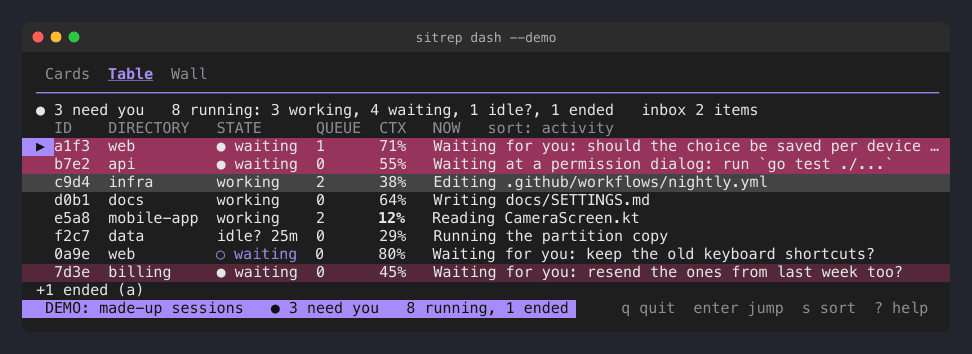
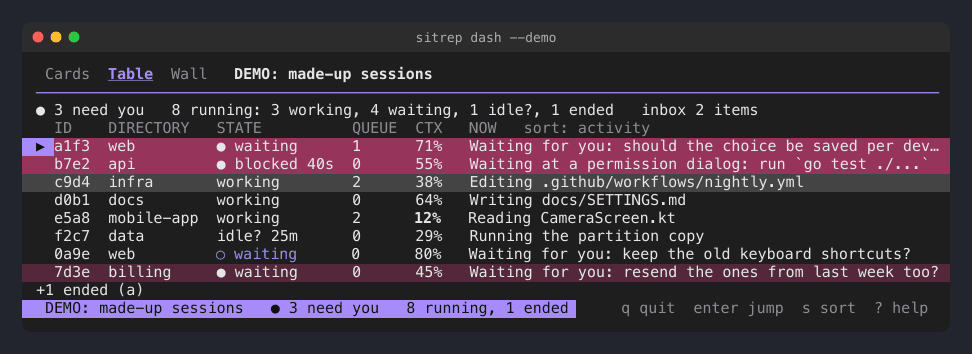
Act on the marketer's review: say where the cost cap is, show the session at a permission dialog as blocked in the demo, crop the social preview at whole rows, split the install paragraph, and name the queue first in the legend

Changed region(s): [[0.2469, 0.3418, 0.9568, 0.8079], [0.216, 0.1864, 0.463, 0.2486]]

diff --git a/internal/cli/demo.go b/internal/cli/demo.go
@@ -34,7 +34,7 @@ type demoSession struct {
 
 var demoSessions = []demoSession{
 	{"a1f3c9d2", "web", "waiting", "waiting", 190, true, false, false, false, "Dark mode for the settings page", "Theme tokens are in; the toggle works in Chrome", "Waiting for you: should the choice be saved per device or per account?", []string{"check the focus ring in dark mode"}, 71},
-	{"b7e20c41", "api", "waiting", "waiting", 40, true, true, false, false, "Add pagination to list_orders", "Cursor pagination written, tests pass", "Waiting at a permission dialog: run `go test ./...`", nil, 55},
+	{"b7e20c41", "api", "waiting", "blocked 40s", 40, true, true, false, false, "Add pagination to list_orders", "Cursor pagination written, tests pass", "Waiting at a permission dialog: run `go test ./...`", nil, 55},
 	{"c9d4a6e8", "infra", "working", "working", 20, false, false, false, false, "Move the nightly job to the new runner", "Image built; the schedule is copied", "Editing .github/workflows/nightly.yml", []string{"remove the old cron entry", "tell the team in the channel"}, 38},
 	{"d0b1f5a7", "docs", "working", "working", 75, false, false, false, false, "Split the README into pages", "Install and Queue are done", "Writing docs/SETTINGS.md", nil, 64},
 	{"e5a8b3c0", "mobile-app", "working", "working", 310, false, false, false, false, "Fix the crash when the camera permission is denied", "Reproduced on Android 14", "Reading CameraScreen.kt", []string{"add a test for the denied case", "update the changelog"}, 12},

diff --git a/docs/theme-shots/readme_shots.py b/docs/theme-shots/readme_shots.py
@@ -143,7 +143,7 @@ def social(frame, out):
     """The 1280 by 640 picture for GitHub's social preview: the name and the tagline over the top of the Cards window, which runs off the bottom."""
     dfg, dbg = (230, 230, 230), (30, 30, 30)
     page = (34, 36, 46)
-    lines = frame.rstrip("\n").split("\n")[1:]
+    lines = frame.rstrip("\n").split("\n")[1:23]  # whole rows only: the window runs off the bottom of the card, and no row is cut in half
     cols = max(sum(c[1] for c in a.parse(l, dfg, dbg)) for l in lines)
     w = cols * CW + 2 * PAD
     parts = [f'<text x="640" y="82" text-anchor="middle" font-family="{FONT}" font-size="54" font-weight="bold" fill="#e6e6e6">claude-sitrep</text>',

diff --git a/README.md b/README.md
@@ -8,9 +8,9 @@ A to-do list for each of your Claude Code sessions, and a dashboard that shows w
 
 *`sitrep dash --demo`, on made-up sessions.*
 
-- `●` the session needs you, `○` it is snoozed, and `▶` marks the selected row.
+- Queue is your own list of what comes next for that session, and Inbox is your list for work that has no session yet. Nothing in them goes to Claude unless you ask.
 - Objective, Progress and Now say what a session is for, how far it has got and what it is doing right now.
-- Queue is your list of what comes next for that session. Inbox is your list for work that has no session yet.
+- `●` the session needs you, `○` it is snoozed, and `▶` marks the selected row.
 
 When you run several Claude Code sessions, you think of the next thing to ask one of them while it is still busy, or of something for another session. Where does that go? Into your head, a scratch file, or a prompt you have to remember to send. And you lose track of which session is waiting for you.
 
@@ -27,7 +27,9 @@ Other tools, including Claude Code's own Agent View, show which sessions are wor
 
 Limits: Claude Code only, one machine (other machines can be reached over ssh, see [docs/REMOTE.md](docs/REMOTE.md)), no cost tracking, and it cannot answer a session's approval prompts. [docs/COMPARISON.md](docs/COMPARISON.md) compares it with Agent View, claudectl, Plate-Spinner and the kanban boards, and says when one of them is the better choice.
 
-To install, run `/plugin install sitrep --marketplace lfeagan/claude-sitrep` in Claude Code, then `/sitrep:setup` (it needs Go 1.26 or newer and the `claude` CLI; see [Install](#install)). To look around first, with nothing installed, run `go run github.com/lfeagan/claude-sitrep/cmd/sitrep@latest dash --demo` (it needs Go 1.26 or newer, and shows made-up sessions). That runs the newest release as you, so it trusts this repository and its owner; `@v1.0.0` in place of `@latest` runs one fixed version, which the Go checksum database also vouches for.
+**Look around first**, with nothing installed: run `go run github.com/lfeagan/claude-sitrep/cmd/sitrep@latest dash --demo`. It shows made-up sessions and needs Go 1.26 or newer. It runs the newest release as you, so it trusts this repository and its owner; put a version in place of `@latest` (for example `@v1.0.1`) to run one fixed release, which the Go checksum database also vouches for.
+
+**Install:** run `/plugin install sitrep --marketplace lfeagan/claude-sitrep` in Claude Code, then `/sitrep:setup`. It needs Go 1.26 or newer and the `claude` CLI, and the details are in [Install](#install).
 
 ## Contents
 
@@ -41,7 +43,7 @@ The dashboard has three tabs, and `tab` switches between them. Cards shows the d
 
 ![The Table tab: one line per session, with state, queue, context left and what it is doing now](docs/img/table.png)
 
-Wall shows the sessions as tiles, many to a screen, with those that need you first. Text is cut to the width of a tile:
+Wall shows the sessions as tiles, many to a screen, with those that need you first. Text is cut to the width of a tile, `+2 more` counts the tiles that do not fit this window, and `a` shows the ended sessions:
 
 ![The Wall tab: tiles of one size, the sessions that need you first](docs/img/wall.png)
 
@@ -151,6 +153,8 @@ The rest (single colours, how long a session that needs you keeps its colour, re
 State is plain files in `~/.claude/sitrep/`, so the status line renders instantly and there is no server. The hooks run `sitrep hook`, which answers within milliseconds, and a short Haiku call writes Progress and Now afterwards in a detached process. The layout, the files and the migration of older state are in [docs/HOW-IT-WORKS.md](docs/HOW-IT-WORKS.md).
 
 ## Privacy And Safety
+
+Each summary is one Haiku call on the tail of the transcript, capped at $0.05, and at most one runs for a session in 45 seconds. The cost has not been measured; [docs/COMPARISON.md](docs/COMPARISON.md#where-sitrep-is-weaker) works out the worst case.
 
 Session state is stored in `~/.claude/sitrep`, which is owner-only (`700`, files `600`). Prompt and model text is treated as untrusted terminal input, so control characters (escape sequences and the C1 range) and format characters (such as bidi overrides) are removed before it is stored and again before it is printed. The summarizer sends the tail of the transcript to Haiku through `claude -p`, the same service the session itself uses. It runs from an empty temporary directory with no tools, no MCP servers, no settings and a 60 second limit, in its own process group that the limit ends whole, and only reads transcripts that live under `~/.claude/projects`. The daily update check is the only other network use: it asks this repository for its tag names and sends nothing from your sessions.
 
